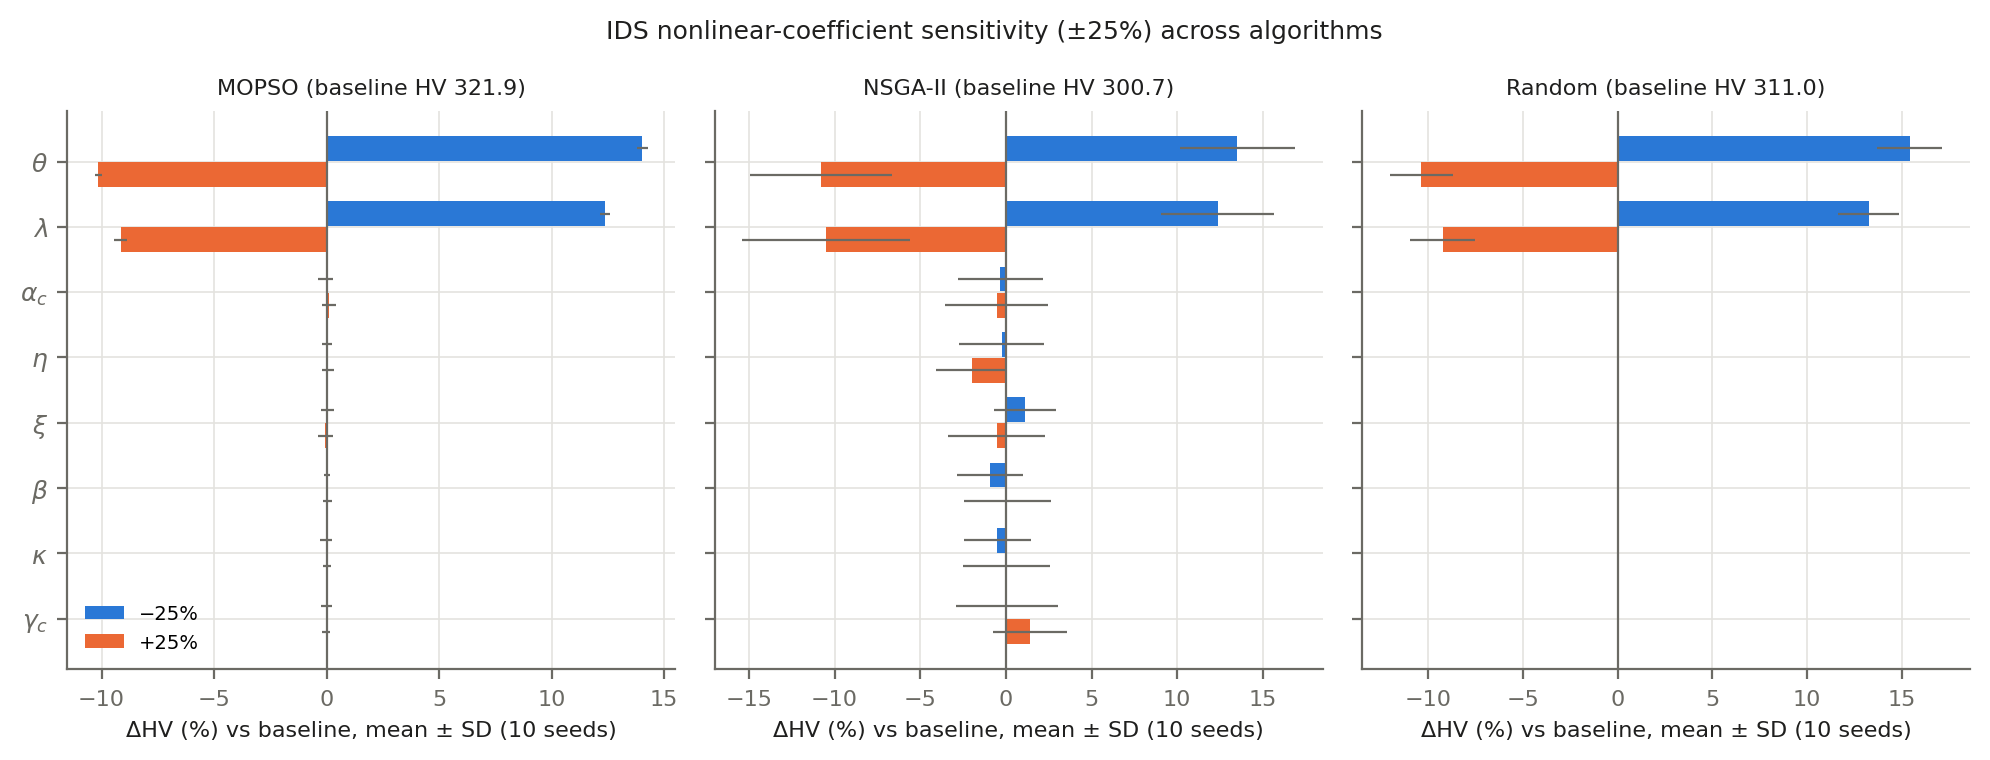
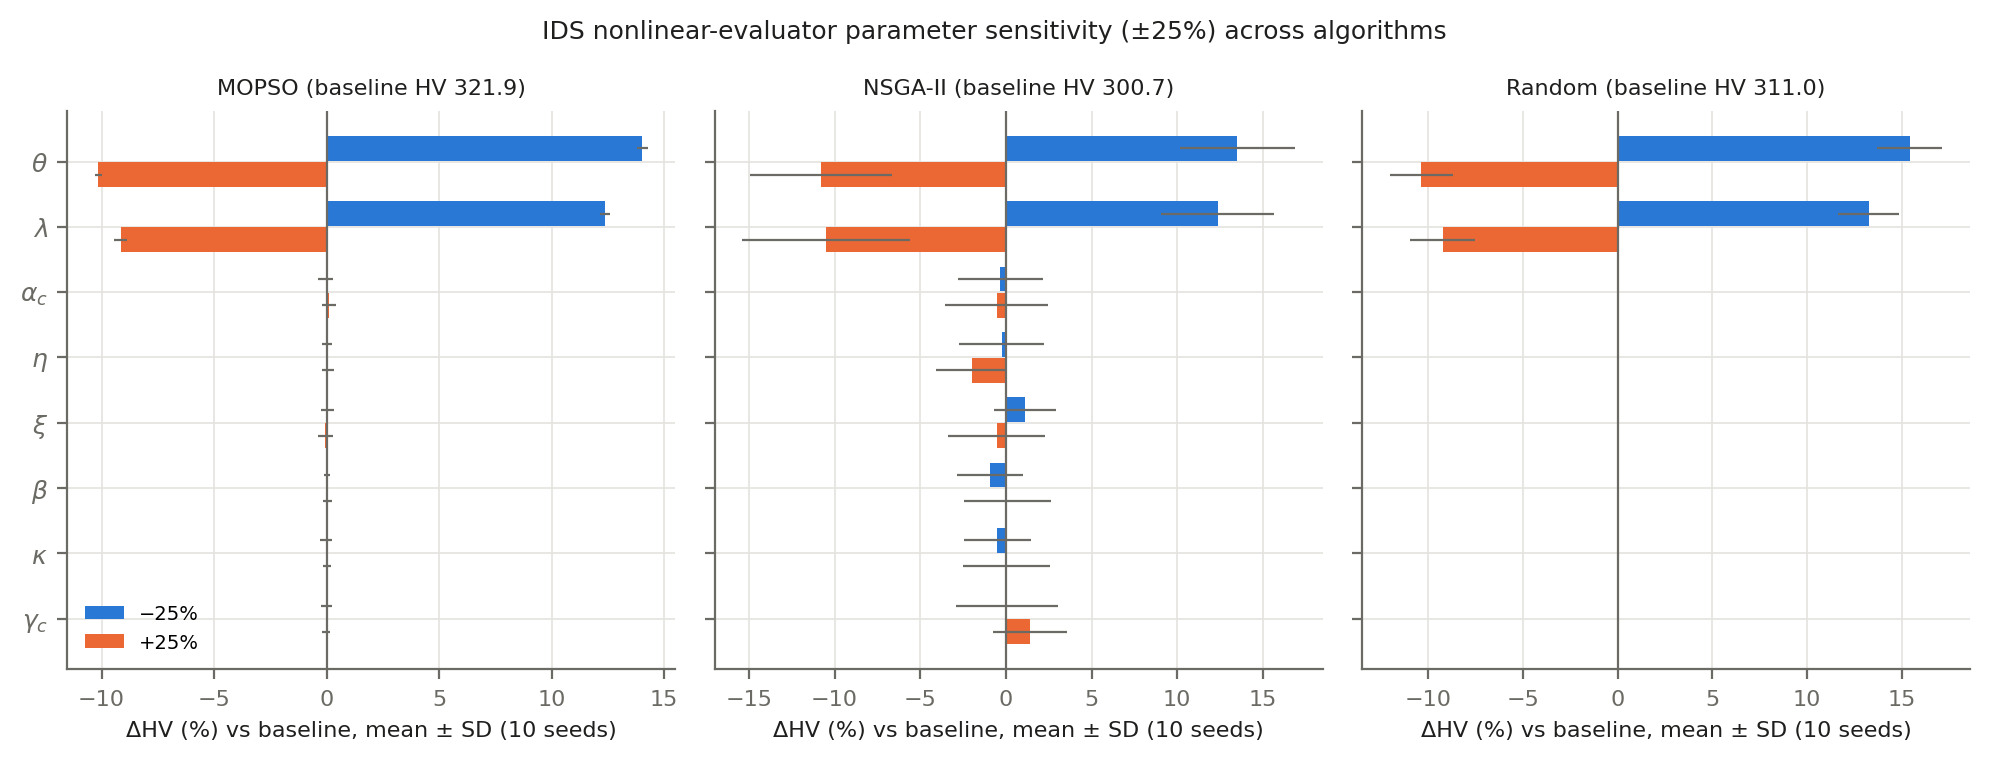
Sensitivity figure: describe perturbed quantities as parameters

Changed region(s): [[0.2804, 0.0303, 0.7166, 0.0605]]

diff --git a/src/make_figures_v2.py b/src/make_figures_v2.py
@@ -245,7 +245,7 @@ def fig_sensitivity():
         ax.set_title(f"{LABEL[m]} (baseline HV {S[m]['baseline_hv_mean']:.1f})", fontsize=8, color=INK)
         ax.set_xlabel("ΔHV (%) vs baseline, mean ± SD (10 seeds)")
     axes[0].legend(fontsize=7)
-    fig.suptitle("IDS nonlinear-coefficient sensitivity (±25%) across algorithms", fontsize=9, color=INK)
+    fig.suptitle("IDS nonlinear-evaluator parameter sensitivity (±25%) across algorithms", fontsize=9, color=INK)
     fig.tight_layout()
     save(fig, "fig_nl_sensitivity_v2")
 
